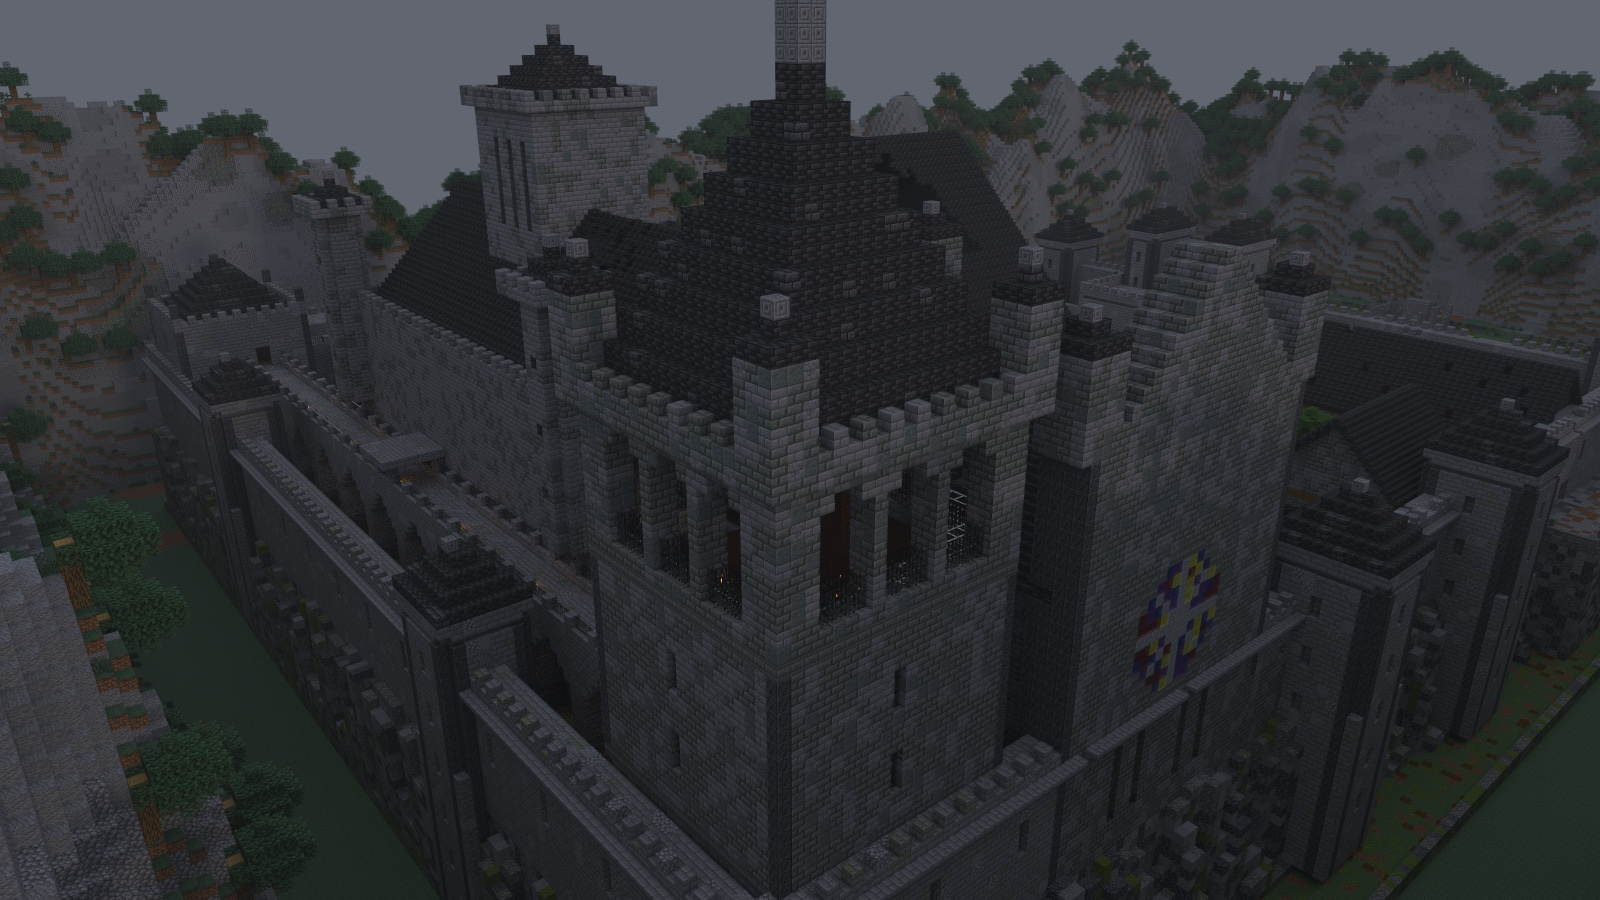
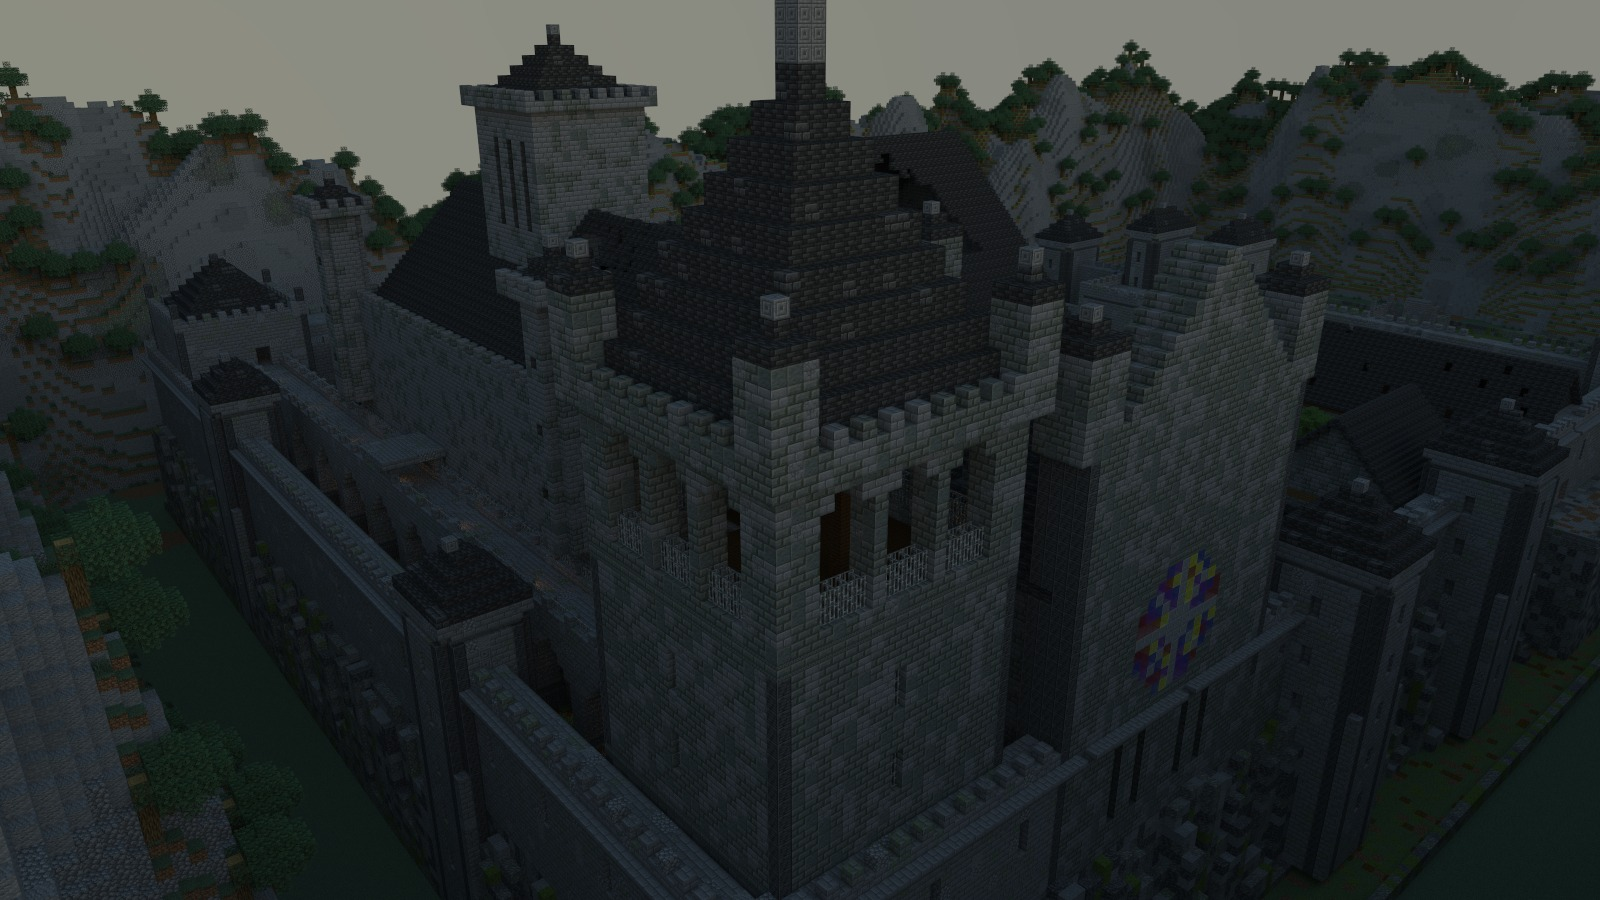
docs(media): Vesperhold's ten pictures drawn by Lumenwright
The ten pictures are redrawn by Lumenwright 0.3.0 with the pinned client
jar's textures (sha256 1473c948...), replacing the Chunky renders. Same file
names, subjects, cameras and 1600x900 size. One caption changes: the
chapel's rose window no longer glows (the Chunky frame was exposed by
hand at 10; this one is at the engine's exposure), so the caption names
the window without the glow.

World: content release/vesperhold/v1.1.0 (894cd9c) built by the delvec
1.8.1 release archive it pins (SHA256SUMS checked). Datapack digest
bf496242...0397, equal to the release image's datapack-sha256 label. The
world is the server's save of that build: validation/world-save.sh at
engine delvec--v1.8.1 booted the delve image, waited for #placed dw.sys = 1
and copied the save (6 region files, 18685952 bytes).

Instrument: delvec 1.14.0 (crates.io) frame function
compiler::view::frames::draw through frameset::draw_frame, linking
lumenwright =0.3.0, under the sky delvec states for each camera's row:
dusk,rain (daytime 12000) for nine, and noon,clear for the chapel, the one
frame the caption says is shown by day; exposure is the engine's 1.0.
Rain reaches a frame as the rain sky's colour and light with the sun
dark: no rain is drawn in the air, as in the previous set. delvec 1.14.0
has no verb that draws a stated camera on a world it did not assemble,
and it refuses the v1.1.0 documents (DW0102), so a scratch program calls
that function directly. Backend: Metal, Apple M2 Pro (the remote build
[…]

diff --git a/docs/media/vesperhold/README.md b/docs/media/vesperhold/README.md
@@ -24,7 +24,7 @@ The cloister from above: one tree in the garth, the arcades around it, the well-
 
 ![The Chapel of Hours](07-chapel-of-hours.jpg)
 
-The Chapel of Hours, shown by day: noon light falling through the broken roof onto the pews, and the rose window glowing in the west front.
+The Chapel of Hours, shown by day: noon light falling through the broken roof onto the pews, and the rose window in the west front.
 
 ![The undertide pool](08-undertide-pool.jpg)
 
